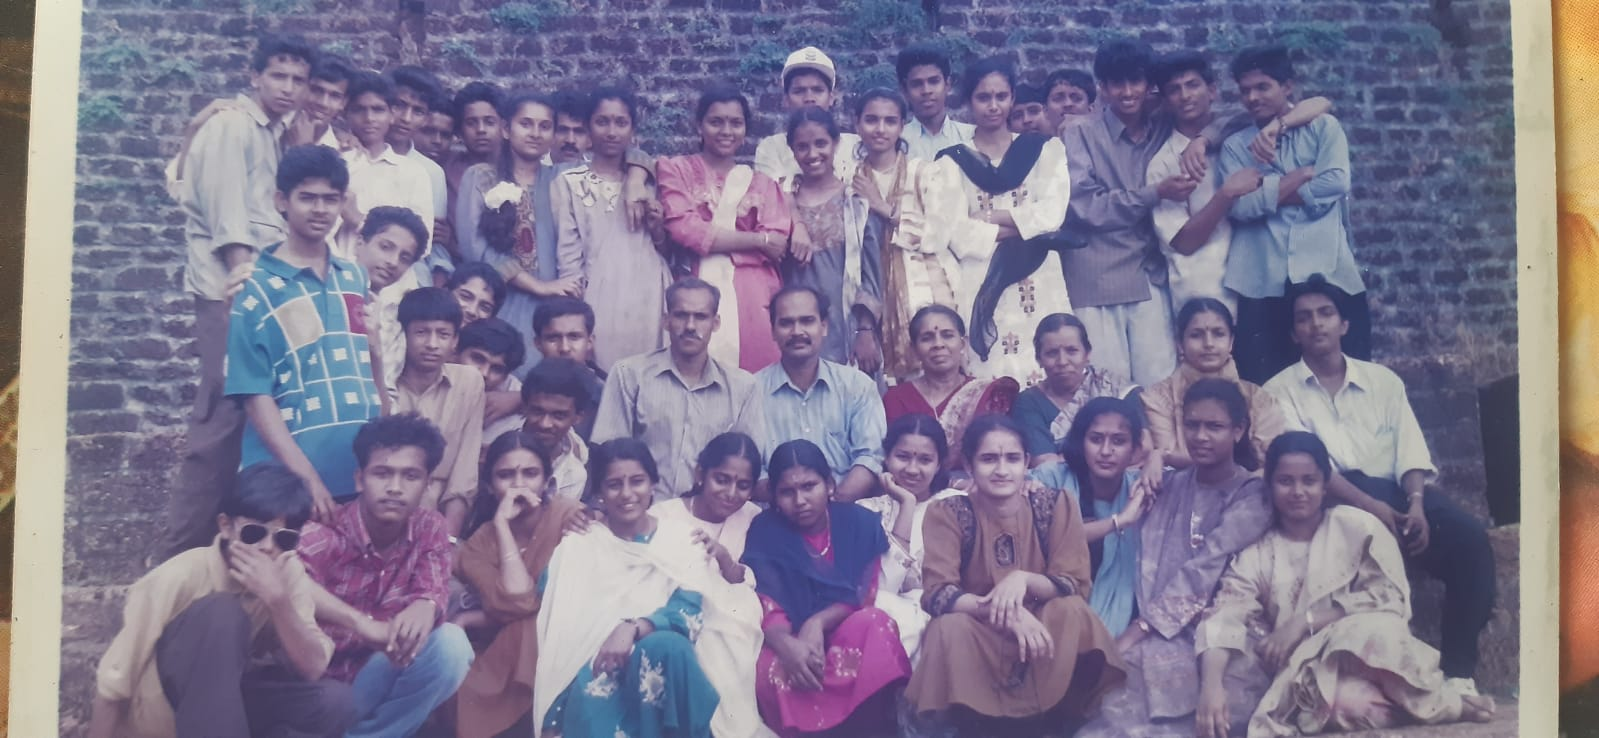
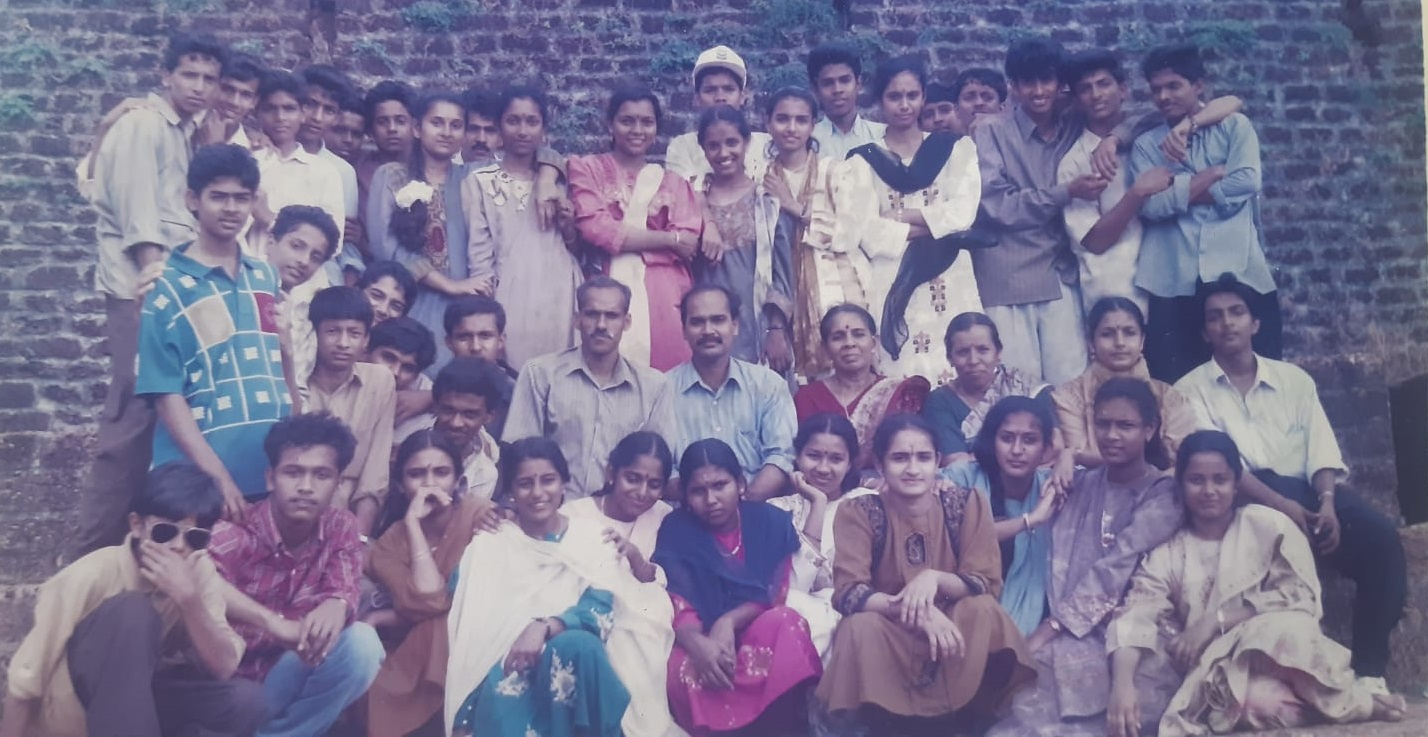
Add files via upload

diff --git a/index.html b/index.html
@@ -2,90 +2,178 @@
 <html lang="en">
 <head>
 <meta charset="utf-8">
-<meta name="viewport" content="width=device-width,initial-scale=1,viewport-fit=cover">
-<title>Group Directory</title>
+<meta name="viewport" content="width=device-width,initial-scale=1">
+<title>Group Photo Directory</title>
 <style>
-*{box-sizing:border-box}body{margin:0;background:#f3f5f7;color:#18212b;font-family:Arial,sans-serif}
-.wrap{max-width:1400px;margin:auto;padding:10px}header{display:flex;align-items:center;justify-content:space-between;gap:8px;flex-wrap:wrap}
-h1{font-size:clamp(20px,3vw,30px);margin:4px 0 10px}.toolbar{display:flex;gap:7px}
-button{border:1px solid #d5dbe1;background:#fff;border-radius:8px;padding:10px 13px;font-size:14px}
-.primary{background:#1769aa;color:#fff;border-color:#1769aa}.danger{color:#b42318}
-.editor{display:none;background:#fff;border:1px solid #d5dbe1;border-radius:10px;padding:12px;margin-bottom:10px}.editor.show{display:block}
-.grid{display:grid;grid-template-columns:repeat(2,1fr);gap:9px}label{font-size:12px;color:#66727e}
-input,select{display:block;width:100%;margin-top:4px;padding:10px;border:1px solid #d5dbe1;border-radius:7px;font-size:14px}
-.actions{display:flex;gap:7px;flex-wrap:wrap;margin-top:10px}.hint{font-size:12px;color:#66727e}
-.photo{position:relative;width:100%;overflow:hidden;background:#111;border-radius:10px;touch-action:manipulation}.photo img{display:block;width:100%;height:auto}
-.hot{position:absolute;transform:translate(-50%,-50%);width:42px;height:42px;border-radius:50%;border:2px solid transparent;background:transparent;cursor:pointer;touch-action:none}
-.edit .hot{border-color:#1769aa;background:#1769aa22}
-.pop{display:none;position:absolute;z-index:10;width:260px;max-width:calc(100vw - 20px);padding:13px;background:white;border:1px solid #d5dbe1;border-radius:11px;box-shadow:0 10px 30px #0003}
-.pop.show{display:block}.pop h2{font-size:18px;margin:0 25px 9px 0}.row{margin:6px 0}.lab{font-size:10px;text-transform:uppercase;color:#6c7782}.val{font-size:14px;line-height:1.3;word-break:break-word}
-.x{position:absolute;right:5px;top:4px;border:0;background:none;font-size:22px;padding:2px 7px}
-@media(max-width:700px){.wrap{padding:7px}.toolbar{width:100%}.toolbar button{flex:1}.grid{grid-template-columns:1fr}.hot{width:38px;height:38px}
-.pop{position:fixed!important;left:10px!important;right:10px!important;bottom:10px!important;top:auto!important;width:auto!important;max-width:none}}
+*{box-sizing:border-box}
+body{margin:0;background:#f3f5f7;color:#172033;font-family:Arial,Helvetica,sans-serif}
+header{background:#fff;border-bottom:1px solid #dfe3e8;padding:12px 18px;display:flex;justify-content:space-between;align-items:center;gap:12px;position:sticky;top:0;z-index:50}
+h1{font-size:20px;margin:0 0 3px}.status{font-size:12px;color:#667085}
+.controls{display:flex;gap:7px;flex-wrap:wrap}
+.btn{border:1px solid #cbd5e1;background:#fff;border-radius:7px;padding:8px 12px;cursor:pointer}
+.btn.primary{background:#2563eb;color:#fff;border-color:#2563eb}.btn.danger{color:#b42318}
+main{max-width:1500px;margin:18px auto;padding:0 12px}
+.photo-card{background:#fff;border:1px solid #dfe3e8;border-radius:12px;padding:9px;box-shadow:0 3px 12px rgba(0,0,0,.06)}
+.photo-wrap{position:relative;width:100%;line-height:0}
+.photo{display:block;width:100%;height:auto;border-radius:6px}
+.hotspot{position:absolute;border:2px solid transparent;background:transparent;border-radius:8px;padding:0;cursor:pointer;z-index:5}
+.hotspot:hover,.hotspot:focus,.hotspot.active{border-color:#fff;box-shadow:0 0 0 2px #2563eb;background:rgba(37,99,235,.10);outline:none}
+.popup{display:none;position:absolute;z-index:30;width:245px;background:#fff;color:#172033;border:1px solid #d7dce3;border-radius:10px;box-shadow:0 10px 30px rgba(0,0,0,.22);text-align:left;line-height:1.35;overflow:hidden}
+.hotspot:hover .popup,.hotspot:focus .popup,.hotspot.active .popup{display:block}
+.popup.auto{left:50%;top:calc(100% + 9px);transform:translateX(-50%)}
+.popup.right{left:calc(100% + 9px);top:0}
+.popup.left{right:calc(100% + 9px);top:0}
+.popup.above{left:50%;bottom:calc(100% + 9px);transform:translateX(-50%)}
+.popup.below{left:50%;top:calc(100% + 9px);transform:translateX(-50%)}
+.popup .title{background:#2563eb;color:#fff;padding:9px 11px;font-weight:700}
+.popup .body{padding:10px 11px;font-size:13px}.row{margin:5px 0}.label{font-weight:700;color:#344054}
+.popup .edit{margin-top:8px;width:100%;padding:7px;border:1px solid #cbd5e1;border-radius:6px;background:#f8fafc;cursor:pointer}
+.edit-mode .hotspot{border:2px dashed rgba(37,99,235,.8);background:rgba(37,99,235,.08);cursor:move}
+.edit-mode .hotspot::after{content:attr(data-label);position:absolute;left:50%;top:50%;transform:translate(-50%,-50%);font-size:11px;line-height:1;background:#2563eb;color:#fff;padding:3px 5px;border-radius:4px;white-space:nowrap}
+.edit-mode .popup{display:none!important}
+.editorbar{display:none;background:#eef4ff;border:1px solid #cfe0ff;padding:9px 11px;border-radius:8px;margin-bottom:9px;font-size:13px}
+.editorbar.show{display:flex;justify-content:space-between;gap:10px;align-items:center;flex-wrap:wrap}
+.legend{font-size:12px;color:#667085;margin-top:9px}
+.modal{display:none;position:fixed;inset:0;background:rgba(0,0,0,.48);z-index:100;align-items:center;justify-content:center;padding:14px}
+.modal.open{display:flex}.modal-box{width:min(560px,100%);background:#fff;border-radius:12px;padding:18px;box-shadow:0 20px 60px rgba(0,0,0,.3)}
+.modal-box h2{margin:0 0 14px;font-size:19px}.grid{display:grid;grid-template-columns:1fr 1fr;gap:10px}
+.field{display:flex;flex-direction:column;gap:4px}.full{grid-column:1/-1}label{font-size:12px;font-weight:700;color:#475467}
+input,select{width:100%;padding:9px;border:1px solid #cbd5e1;border-radius:7px;font-size:14px;background:#fff}
+.modal-actions{display:flex;justify-content:space-between;gap:8px;margin-top:16px}.right-actions{display:flex;gap:8px}
+.small{font-size:11px;color:#667085}
+@media(max-width:700px){header{align-items:flex-start;flex-direction:column}.grid{grid-template-columns:1fr}.full{grid-column:auto}.popup{width:210px}}
 </style>
 </head>
 <body>
-<div class="wrap">
-<header><h1>Group Directory</h1><div class="toolbar"><button id="edit">Edit / Add People</button><button id="reset" class="danger">Reset</button></div></header>
-<div id="editor" class="editor">
-<div class="grid">
-<label>Name<input id="name"></label>
-<label>Job / Sector<input id="job"></label>
-<label>Present Location<input id="present"></label>
-<label>Permanent Location<input id="permanent"></label>
-<label>Mob Number<input id="mob"></label>
-<label>Popup Position<select id="pos"><option>auto</option><option>right</option><option>left</option><option>above</option><option>below</option></select></label>
+<header>
+ <div><h1>Group Photo Directory</h1><div class="status" id="status">Hover or tap a person to view details.</div></div>
+ <div class="controls">
+  <button class="btn primary" id="editModeBtn">Edit / Add People</button>
+  <button class="btn" id="resetBtn">Reset</button>
+ </div>
+</header>
+<main>
+ <div id="editorBar" class="editorbar">
+  <span><b>Edit mode:</b> drag a box onto a person's face. Click a box to edit that person's details.</span>
+  <button class="btn primary" id="addBtn">+ Add Person</button>
+ </div>
+ <div class="photo-card">
+  <div class="photo-wrap" id="photoWrap"><img class="photo" src="image1.jpg" alt="Group photograph"></div>
+  <div class="legend">Normal mode: names are hidden. Hover on desktop or tap on mobile to show the popup.</div>
+ </div>
+</main>
+
+<div class="modal" id="modal">
+ <div class="modal-box">
+  <h2 id="modalTitle">Edit Person</h2>
+  <form id="personForm">
+   <div class="grid">
+    <div class="field full"><label>Name</label><input id="fName" required></div>
+    <div class="field full"><label>Address</label><input id="fAddress"></div>
+    <div class="field"><label>Phone</label><input id="fPhone"></div>
+    <div class="field"><label>Email</label><input id="fEmail" type="email"></div>
+    <div class="field full"><label>Other details</label><input id="fOccupation"></div>
+    <div class="field full"><label>Popup position</label>
+      <select id="fPopup"><option value="auto">Auto / below</option><option value="right">Right</option><option value="left">Left</option><option value="above">Above</option><option value="below">Below</option></select>
+      <div class="small">You can change this separately for each person.</div>
+    </div>
+   </div>
+   <div class="modal-actions">
+    <button type="button" class="btn danger" id="deleteBtn">Delete person</button>
+    <div class="right-actions"><button type="button" class="btn" id="cancelBtn">Cancel</button><button type="submit" class="btn primary">Save</button></div>
+   </div>
+  </form>
+ </div>
 </div>
-<div class="actions"><button id="save" class="primary">Save Person</button><button id="add">+ Add Person</button><button id="del" class="danger">Delete Person</button><button id="close">Close</button></div>
-<div class="hint">Desktop: hover a person. Mobile: tap a person. Edit mode: drag the blue hotspot onto the face.</div>
-</div>
-<div id="photo" class="photo"><img src="image1.jpg" alt="Group photo"></div>
-</div>
+
 <script>
-const D=Array.from({length:31},(_,i)=>({id:i+1,name:"STUDENT"+(i+1),job:"",present:"",permanent:"",mob:"",pos:"auto",
-x:[7,13,18,23,28,33,38,43,48,53,58,63,68,73,78,83,88,93,10,20,30,40,50,60,70,80,90,25,45,65,85][i],
-y:[57,57,57,57,57,57,57,57,57,57,57,57,57,57,57,57,57,57,36,36,36,36,36,36,36,36,36,20,20,20,20][i]}));
-let P=JSON.parse(localStorage.getItem("groupDirectoryPeople")||"null")||D, editMode=false,sel=null;
-const $=id=>document.getElementById(id), photo=$("photo");
-function esc(s){return String(s||"").replace(/[&<>"']/g,c=>({"&":"&amp;","<":"&lt;",">":"&gt;",'"':"&quot;","'":"&#39;"}[c]))}
-function store(){localStorage.setItem("groupDirectoryPeople",JSON.stringify(P))}
-function closeP(){document.querySelectorAll(".pop").forEach(x=>x.classList.remove("show"))}
-function popup(p){
-return '<button class="x">×</button><h2>'+esc(p.name)+'</h2>'+
-'<div class="row"><div class="lab">Job / Sector</div><div class="val">'+esc(p.job)||"—"+'</div></div>'+
-'<div class="row"><div class="lab">Present Location</div><div class="val">'+(esc(p.present)||"—")+'</div></div>'+
-'<div class="row"><div class="lab">Permanent Location</div><div class="val">'+(esc(p.permanent)||"—")+'</div></div>'+
-'<div class="row"><div class="lab">Mob Number</div><div class="val">'+(esc(p.mob)||"—")+'</div></div>'}
-function place(pop,h,p){
-if(innerWidth<=700){return}
-const r=photo.getBoundingClientRect(),q=h.getBoundingClientRect(),w=260;
-let l=q.left-r.left+45,t=q.top-r.top-5;
-if(p.pos=="left")l-=w+60;if(p.pos=="above"){l-=w/2;t-=190}if(p.pos=="below"){l-=w/2;t+=50}
-if(p.pos=="auto"&&l+w>r.width)l-=w+60;
-pop.style.left=Math.max(6,Math.min(l,r.width-w-6))+"px";pop.style.top=Math.max(6,t)+"px"}
-function show(i,h){closeP();let p=photo.querySelector('.pop[data-i="'+i+'"]');place(p,h,P[i]);p.classList.add("show")}
+const DEFAULT_DATA = [{"id": 1, "name": "STUDENT1", "address": "", "phone": "", "email": "", "occupation": "", "left": 15.8, "top": 7.0, "width": 7.0, "height": 22.0, "popup": "auto"}, {"id": 2, "name": "STUDENT2", "address": "", "phone": "", "email": "", "occupation": "", "left": 20.0, "top": 8.0, "width": 6.0, "height": 19.0, "popup": "auto"}, {"id": 3, "name": "STUDENT3", "address": "", "phone": "", "email": "", "occupation": "", "left": 24.0, "top": 10.0, "width": 6.0, "height": 18.0, "popup": "auto"}, {"id": 4, "name": "STUDENT4", "address": "", "phone": "", "email": "", "occupation": "", "left": 28.0, "top": 11.0, "width": 6.0, "height": 18.0, "popup": "auto"}, {"id": 5, "name": "STUDENT5", "address": "", "phone": "", "email": "", "occupation": "", "left": 32.0, "top": 11.0, "width": 6.0, "height": 18.0, "popup": "auto"}, {"id": 6, "name": "STUDENT6", "address": "", "phone": "", "email": "", "occupation": "", "left": 37.0, "top": 11.0, "width": 6.0, "height": 18.0, "popup": "auto"}, {"id": 7, "name": "STUDENT7", "address": "", "phone": "", "email": "", "occupation": "", "left": 42.0, "top": 10.0, "width": 6.0, "height": 18.0, "popup": "auto"}, {"id": 8, "name": "STUDENT8", "address": "", "phone": "", "email": "", "occupation": "", "left": 47.0, "top": 10.0, "width": 6.0, "height": 18.0, "popup": "auto"}, {"id": 9, "name": "STUDENT9", "address": "", "phone": "", "email": "", "occupation": "", "left": 51.0, "top": 9.0, "width": 6.0, "height": 19.0, "popup": "auto"}, {"id": 10, "name": "STUDENT10", "address": "", "phone": "", "email": "", "occupation": "", "left": 56.0, "top": 9.0, "width": 6.0, "height": 19.0, "popup": "auto"}, {"id": 11, "name": "STUDENT11", "address": "", "phone": "", "email": "", "occupation": "", "left": 61.0, "top": 10.0, "width": 6.0, "height": 19.0, "popup": "auto"}, {"id": 12, "name": "STUDENT12", "address": "", "phone": "", "email": "", "occupation": "", "left": 66.0, "top": 10.0, "width": 6.0, "height": 19.0, "popup": "auto"}, {"id": 13, "name": "STUDENT13", "address": "", "phone": "", "email": "", "occupation": "", "left": 71.0, "top": 9.0, "width": 6.0, "height": 19.0, "popup": "auto"}, {"id": 14, "name": "STUDENT14", "address": "", "phone": "", "email": "", "occupation": "", "left": 76.0, "top": 10.0, "width": 6.0, "height": 19.0, "popup": "auto"}, {"id": 15, "name": "STUDENT15", "address": "", "phone": "", "email": "", "occupation": "", "left": 81.0, "top": 11.0, "width": 6.0, "height": 19.0, "popup": "auto"}, {"id": 16, "name": "STUDENT16", "address": "", "phone": "", "email": "", "occupation": "", "left": 86.0, "top": 12.0, "width": 6.0, "height": 19.0, "popup": "auto"}, {"id": 17, "name": "STUDENT17", "address": "", "phone": "", "email": "", "occupation": "", "left": 20.0, "top": 27.0, "width": 8.0, "height": 22.0, "popup": "auto"}, {"id": 18, "name": "STUDENT18", "address": "", "phone": "", "email": "", "occupation": "", "left": 29.0, "top": 36.0, "width": 7.0, "height": 19.0, "popup": "auto"}, {"id": 19, "name": "STUDENT19", "address": "", "phone": "", "email": "", "occupation": "", "left": 38.0, "top": 38.0, "width": 7.0, "height": 19.0, "popup": "auto"}, {"id": 20, "name": "STUDENT20", "address": "", "phone": "", "email": "", "occupation": "", "left": 47.0, "top": 39.0, "width": 7.0, "height": 19.0, "popup": "auto"}, {"id": 21, "name": "STUDENT21", "address": "", "phone": "", "email": "", "occupation": "", "left": 56.0, "top": 40.0, "width": 7.0, "height": 19.0, "popup": "auto"}, {"id": 22, "name": "STUDENT22", "address": "", "phone": "", "email": "", "occupation": "", "left": 65.0, "top": 40.0, "width": 7.0, "height": 19.0, "popup": "auto"}, {"id": 23, "name": "STUDENT23", "address": "", "phone": "", "email": "", "occupation": "", "left": 74.0, "top": 40.0, "width": 7.0, "height": 19.0, "popup": "auto"}, {"id": 24, "name": "STUDENT24", "address": "", "phone": "", "email": "", "occupation": "", "left": 83.0, "top": 39.0, "width": 7.0, "height": 19.0, "popup": "auto"}, {"id": 25, "name": "STUDENT25", "address": "", "phone": "", "email": "", "occupation": "", "left": 19.0, "top": 62.0, "width": 8.0, "height": 23.0, "popup": "auto"}, {"id": 26, "name": "STUDENT26", "address": "", "phone": "", "email": "", "occupation": "", "left": 31.0, "top": 65.0, "width": 8.0, "height": 22.0, "popup": "auto"}, {"id": 27, "name": "STUDENT27", "address": "", "phone": "", "email": "", "occupation": "", "left": 42.0, "top": 67.0, "width": 8.0, "height": 21.0, "popup": "auto"}, {"id": 28, "name": "STUDENT28", "address": "", "phone": "", "email": "", "occupation": "", "left": 53.0, "top": 67.0, "width": 8.0, "height": 21.0, "popup": "auto"}, {"id": 29, "name": "STUDENT29", "address": "", "phone": "", "email": "", "occupation": "", "left": 64.0, "top": 65.0, "width": 8.0, "height": 22.0, "popup": "auto"}, {"id": 30, "name": "STUDENT30", "address": "", "phone": "", "email": "", "occupation": "", "left": 75.0, "top": 64.0, "width": 8.0, "height": 23.0, "popup": "auto"}, {"id": 31, "name": "STUDENT31", "address": "", "phone": "", "email": "", "occupation": "", "left": 86.0, "top": 63.0, "width": 7.0, "height": 24.0, "popup": "auto"}];
+let people = JSON.parse(localStorage.getItem('groupPhotoPeopleV2') || 'null') || DEFAULT_DATA;
+let editMode=false, editingId=null, drag=null;
+const wrap=document.getElementById('photoWrap'), modal=document.getElementById('modal');
+
+function esc(s){return String(s??'').replace(/[&<>"']/g,c=>({'&':'&amp;','<':'&lt;','>':'&gt;','"':'&quot;',"'":'&#39;'}[c]));}
+function save(){localStorage.setItem('groupPhotoPeopleV2',JSON.stringify(people));}
+function openEditor(id){
+ editingId=id; const p=people.find(x=>x.id===id); if(!p)return;
+ document.getElementById('modalTitle').textContent='Edit '+p.name;
+ document.getElementById('fName').value=p.name||'';
+ document.getElementById('fAddress').value=p.address||'';
+ document.getElementById('fPhone').value=p.phone||'';
+ document.getElementById('fEmail').value=p.email||'';
+ document.getElementById('fOccupation').value=p.occupation||'';
+ document.getElementById('fPopup').value=p.popup||'auto';
+ modal.classList.add('open'); document.getElementById('fName').focus();
+}
+function popupClass(p){return ['auto','right','left','above','below'].includes(p.popup)?p.popup:'auto';}
 function render(){
-closeP();photo.querySelectorAll(".hot,.pop").forEach(x=>x.remove());
-P.forEach((p,i)=>{
-let h=document.createElement("div");h.className="hot";h.style.left=p.x+"%";h.style.top=p.y+"%";
-let q=document.createElement("div");q.className="pop";q.dataset.i=i;q.innerHTML=popup(p);photo.append(h,q);
-h.onmouseenter=()=>!editMode&&show(i,h);h.onmouseleave=()=>!editMode&&setTimeout(()=>q.classList.remove("show"),250);
-h.onclick=e=>{e.stopPropagation();editMode?select(i):toggle(i,h)};
-h.ontouchend=e=>{if(!editMode){e.preventDefault();toggle(i,h)}};
-q.querySelector(".x").onclick=()=>q.classList.remove("show");
-if(editMode)drag(h,i);
-})}
-function toggle(i,h){let q=photo.querySelector('.pop[data-i="'+i+'"]'),was=q.classList.contains("show");closeP();if(!was)show(i,h)}
-function select(i){sel=i;let p=P[i];$("name").value=p.name;$("job").value=p.job;$("present").value=p.present;$("permanent").value=p.permanent;$("mob").value=p.mob;$("pos").value=p.pos}
-function drag(h,i){let down=false;h.onpointerdown=e=>{down=true;h.setPointerCapture(e.pointerId);e.preventDefault()};
-h.onpointermove=e=>{if(!down)return;let r=photo.getBoundingClientRect();P[i].x=Math.max(0,Math.min(100,(e.clientX-r.left)/r.width*100));P[i].y=Math.max(0,Math.min(100,(e.clientY-r.top)/r.height*100));h.style.left=P[i].x+"%";h.style.top=P[i].y+"%"};
-h.onpointerup=()=>{down=false;store()}}
-$("edit").onclick=()=>{editMode=!editMode;$("editor").classList.toggle("show",editMode);photo.classList.toggle("edit",editMode);$("edit").textContent=editMode?"Exit Edit Mode":"Edit / Add People";render()};
-$("save").onclick=()=>{if(sel===null)return alert("Select a person first.");let p=P[sel];p.name=$("name").value.trim()||"STUDENT"+(sel+1);p.job=$("job").value.trim();p.present=$("present").value.trim();p.permanent=$("permanent").value.trim();p.mob=$("mob").value.trim();p.pos=$("pos").value;store();render();select(sel)};
-$("add").onclick=()=>{P.push({id:Date.now(),name:"STUDENT"+(P.length+1),job:"",present:"",permanent:"",mob:"",pos:"auto",x:50,y:50});store();render();select(P.length-1)};
-$("del").onclick=()=>{if(sel!==null&&confirm("Delete this person?")){P.splice(sel,1);sel=null;store();render()}};
-$("close").onclick=()=>{$("editor").classList.remove("show");editMode=false;photo.classList.remove("edit");$("edit").textContent="Edit / Add People";render()};
-$("reset").onclick=()=>{if(confirm("Reset to original sample data?")){P=JSON.parse(JSON.stringify(D));sel=null;store();render()}};
-photo.onclick=()=>{if(!editMode)closeP()};addEventListener("resize",()=>!editMode&&closeP());render();
+ wrap.querySelectorAll('.hotspot').forEach(e=>e.remove());
+ people.forEach(p=>{
+  const b=document.createElement('button'); b.type='button'; b.className='hotspot'; b.dataset.id=p.id; b.dataset.label=p.name;
+  b.style.left=p.left+'%'; b.style.top=p.top+'%'; b.style.width=p.width+'%'; b.style.height=p.height+'%';
+  b.setAttribute('aria-label',p.name);
+  const pop=document.createElement('div'); pop.className='popup '+popupClass(p);
+  pop.innerHTML=`<div class="title">${esc(p.name)}</div><div class="body">
+   ${p.address?`<div class="row"><span class="label">Address:</span> ${esc(p.address)}</div>`:''}
+   ${p.phone?`<div class="row"><span class="label">Phone:</span> ${esc(p.phone)}</div>`:''}
+   ${p.email?`<div class="row"><span class="label">Email:</span> ${esc(p.email)}</div>`:''}
+   ${p.occupation?`<div class="row"><span class="label">Other:</span> ${esc(p.occupation)}</div>`:''}
+   <button type="button" class="edit">Edit details</button></div>`;
+  b.appendChild(pop);
+  b.addEventListener('click',e=>{
+   if(editMode){e.stopPropagation();openEditor(p.id);}
+   else {document.querySelectorAll('.hotspot.active').forEach(x=>x.classList.remove('active'));b.classList.add('active');}
+  });
+  pop.querySelector('.edit').addEventListener('click',e=>{e.stopPropagation();openEditor(p.id);});
+  b.addEventListener('pointerdown',e=>{
+   if(!editMode || e.button===2)return;
+   e.preventDefault(); b.setPointerCapture(e.pointerId);
+   const r=wrap.getBoundingClientRect();
+   drag={id:p.id,startX:e.clientX,startY:e.clientY,origL:p.left,origT:p.top,r};
+  });
+  b.addEventListener('pointermove',e=>{
+   if(!drag || drag.id!==p.id)return;
+   const dx=(e.clientX-drag.startX)/drag.r.width*100, dy=(e.clientY-drag.startY)/drag.r.height*100;
+   p.left=Math.max(0,Math.min(100-p.width,drag.origL+dx)); p.top=Math.max(0,Math.min(100-p.height,drag.origT+dy));
+   b.style.left=p.left+'%'; b.style.top=p.top+'%';
+  });
+  b.addEventListener('pointerup',()=>{if(drag&&drag.id===p.id){save();drag=null;}});
+  wrap.appendChild(b);
+ });
+ wrap.parentElement.classList.toggle('edit-mode',editMode);
+}
+document.getElementById('editModeBtn').onclick=()=>{
+ editMode=!editMode;
+ document.getElementById('editorBar').classList.toggle('show',editMode);
+ document.getElementById('editModeBtn').textContent=editMode?'Done Editing':'Edit / Add People';
+ document.getElementById('status').textContent=editMode?'Drag boxes to position them, then click a box to edit it.':'Hover or tap a person to view details.';
+ render();
+};
+document.getElementById('addBtn').onclick=()=>{
+ const id=people.length?Math.max(...people.map(p=>p.id))+1:1;
+ const p={id,name:'STUDENT'+id,address:'',phone:'',email:'',occupation:'',left:45,top:45,width:7,height:12,popup:'auto'};
+ people.push(p); save(); render(); openEditor(id);
+};
+document.getElementById('personForm').addEventListener('submit',e=>{
+ e.preventDefault(); const p=people.find(x=>x.id===editingId); if(!p)return;
+ p.name=document.getElementById('fName').value.trim()||('STUDENT'+p.id);
+ p.address=document.getElementById('fAddress').value.trim();
+ p.phone=document.getElementById('fPhone').value.trim();
+ p.email=document.getElementById('fEmail').value.trim();
+ p.occupation=document.getElementById('fOccupation').value.trim();
+ p.popup=document.getElementById('fPopup').value;
+ save(); modal.classList.remove('open'); render();
+});
+document.getElementById('deleteBtn').onclick=()=>{
+ if(editingId==null)return;
+ if(confirm('Delete this person hotspot?')){people=people.filter(p=>p.id!==editingId);save();modal.classList.remove('open');render();}
+};
+document.getElementById('cancelBtn').onclick=()=>modal.classList.remove('open');
+modal.addEventListener('click',e=>{if(e.target===modal)modal.classList.remove('open');});
+document.getElementById('resetBtn').onclick=()=>{
+ if(confirm('Reset all people to the original sample data?')){localStorage.removeItem('groupPhotoPeopleV2');people=JSON.parse(JSON.stringify(DEFAULT_DATA));render();}
+};
+render();
 </script>
-</body></html>
+</body>
+</html>
